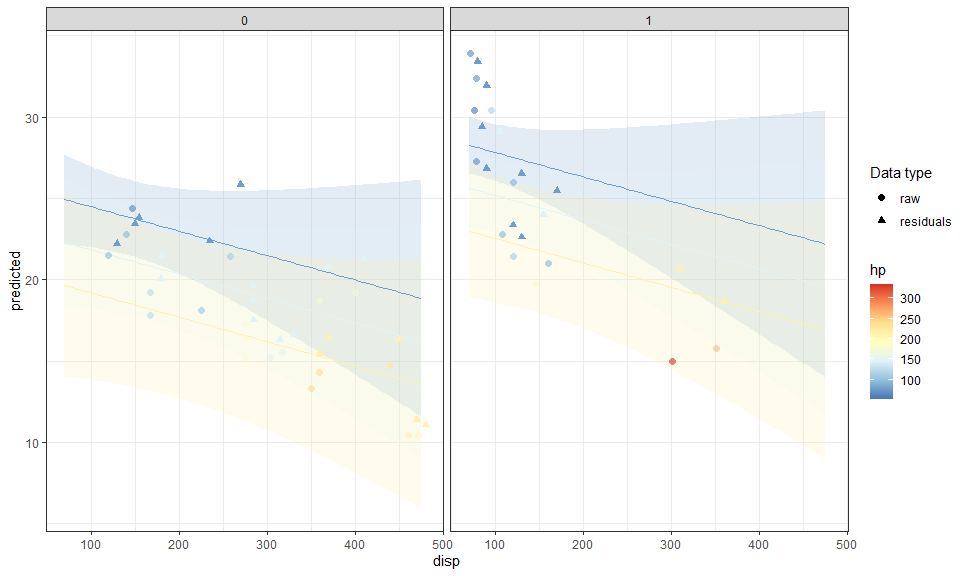
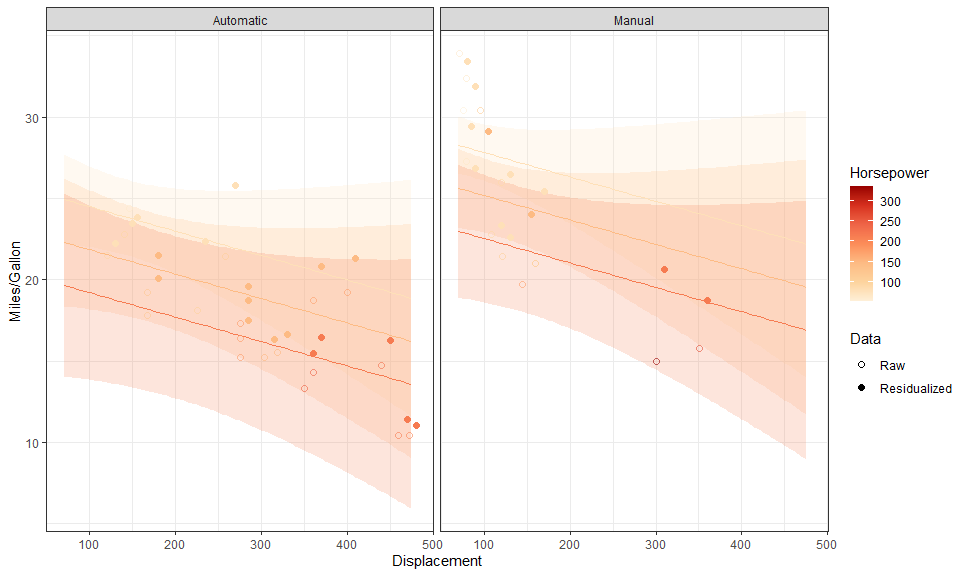
update README

diff --git a/README.md b/README.md
@@ -54,15 +54,20 @@ autoplot(gge) +
 
 The default plot is better looking than the ugly `ggplot2` default,
 however `ggggeffects` is fully customisable, as would be expected (also
-not that the `am` is retained as a numeric variable):
+note that the `am` is retained as a numeric variable):
 
 ``` r
-autoplot(gge, aes(color = factor(am), fill = after_scale(color)),
-         cols = vars(am)) +
+autoplot(
+  gge, 
+  aes(color = factor(am), fill = after_scale(color)),
+  cols = vars(am), 
+  labeller = labeller(am = as_labeller(c("0" = "Automatic", "1" = "Manual")))
+) +
   geom_CI_bar(width = .3, color = "black", position = position_dodge(0.3)) +
-  geom_expected_point(size = 2, position = position_dodge(0.3)) +
+  geom_expected_point(size = 3, position = position_dodge(0.3)) +
+  scale_color_brewer(NULL, labels = c("Automatic", "Manual"), type = "qual") +
   theme_bw() +
-  labs(color = "am")
+  labs(x = "No. Cylinders", y = "Miles/Gallon")
 ```
 
 ![](README_files/figure-gfm/custom1-1.png)<!-- -->
@@ -72,12 +77,14 @@ Here is another example, with a continuous variable on x:
 ``` r
 gge <- ggpredict(fit, c("disp", "hp", "am"))
 
-(p <- autoplot(gge) +
-  geom_CI_ribbon(color = NA, alpha = 0.2) +
-  geom_expected_line() +
-  scale_color_distiller(type = "div", palette = 7, 
-                        aesthetics = c("color", "fill")) +
-  theme_bw())
+(p <- autoplot(gge, labeller = labeller(am = as_labeller(c("0" = "Automatic", "1" = "Manual")))) +
+    geom_CI_ribbon(color = NA, alpha = 0.2) +
+    geom_expected_line() +
+    scale_color_distiller("Horsepower", 
+                          type = "seq", palette = 8, direction = 1,
+                          aesthetics = c("color", "fill")) +
+    theme_bw() +
+    labs(y = "Miles/Gallon", x = "Displacement"))
 ```
 
 ![](README_files/figure-gfm/custom2-1.png)<!-- -->
@@ -88,7 +95,7 @@ We can use `stat_raw_data` to add the raw data to the plot! It’s so
 simple!
 
 ``` r
-p + stat_raw_data()
+p + stat_raw_data(shape = 21, color = "black")
 ```
 
 ![](README_files/figure-gfm/with_data-1.png)<!-- -->
@@ -97,7 +104,7 @@ We can also create partial residual plots with
 `stat_residualized_data()`:
 
 ``` r
-p + stat_residualized_data()
+p + stat_residualized_data(shape = 21, color = "black")
 ```
 
 ![](README_files/figure-gfm/with_residuals-1.png)<!-- -->
@@ -106,10 +113,12 @@ We can even plot them side by side:
 
 ``` r
 p +
-  stat_raw_data(aes(shape = "raw"), size = 2, alpha = 0.6) +
-  stat_residualized_data(aes(shape = "residuals"), size = 2,
+  stat_raw_data(aes(shape = "Raw"), 
+                size = 2, alpha = 0.6) +
+  stat_residualized_data(aes(shape = "Residualized"), 
+                         size = 2,
                          position = position_nudge(x = 10)) +
-  labs(shape = "Data type")
+  scale_shape_manual("Data", values = c(1, 16))
 ```
 
 ![](README_files/figure-gfm/with_both-1.png)<!-- -->
@@ -119,18 +128,58 @@ p +
 We can also plot bi-variate raster plots:
 
 ``` r
-gge <- ggpredict(fit, c("disp [n=10]", "hp [n=10]", "am"))
+mod <- lm(Volume ~ poly(Girth, 3) * Height, data = trees)
 
-autoplot(gge, aes(x = disp, y = hp,
+gge <- ggpredict(mod, c("Girth [n=25]", "Height [n=25]"))
+
+autoplot(gge, aes(x = Girth, y = Height,
+                  group = NULL, # need to override
                   color = predicted, fill = predicted)) +
   geom_raster() +
-  # geom_contour(aes(z = predicted)) +
+  geom_contour(aes(z = predicted),
+               color = "white", linetype = "dashed") +
   stat_raw_data(shape = 21, color = "white", size = 2) +
   scale_color_viridis_c(aesthetics = c("color", "fill")) +
   theme_minimal()
 ```
 
 ![](README_files/figure-gfm/raster_2Dplot-1.png)<!-- -->
+
+This is especially useful for plotting multi-variate smooth terms in
+GAMs:
+
+``` r
+library(mgcv)
+
+eg <- gamSim(2, n = 5000, scale = .5)
+```
+
+    ## Bivariate smoothing example
+
+``` r
+b5 <- gam(y ~ s(x, z, k = 20), data = eg$data)
+
+plot(b5)
+```
+
+![](README_files/figure-gfm/raster_GAM-1.png)<!-- -->
+
+``` r
+# Compare to
+
+gge <- ggpredict(b5, c("x [n=45]", "z [n=45]"))
+
+autoplot(gge, aes(x = x, y = z, 
+                  group = NULL, # need to override
+                  color = predicted, fill = predicted)) +
+  geom_raster() +
+  geom_contour(aes(z = predicted),
+               color = "white", linetype = "dashed") +
+  scale_color_viridis_c(aesthetics = c("color", "fill")) +
+  theme_minimal()
+```
+
+![](README_files/figure-gfm/raster_GAM-2.png)<!-- -->
 
 ### Collapsing Across Random Variables
 
@@ -167,8 +216,10 @@ gge <- ggemmeans(m, c("congruency", "condition"))
 ``` r
 p <- autoplot(gge) +
   geom_CI_bar(width = .3, color = "black", position = position_dodge(0.7)) +
+  geom_expected_line(position = position_dodge(0.7)) +
   geom_expected_point(shape = 21, color = "black", 
-                      position = position_dodge(0.7), size = 3)
+                      position = position_dodge(0.7), size = 3) +
+  theme_classic()
 ```
 
 To collapse across a grouping variable, we set `collapse.group` to
@@ -212,7 +263,7 @@ p +
 
 We can do the same for residualized data, or with a continuous variable
 on x (though this only really works nicely if the covariate is on level
-2+):
+2+) - or both:
 
 ``` r
 gge <- ggemmeans(m, c("level2_cov [all]", "congruency", "condition"))
@@ -220,7 +271,8 @@ gge <- ggemmeans(m, c("level2_cov [all]", "congruency", "condition"))
 autoplot(gge) +
   geom_CI_ribbon(color = NA, alpha = 0.1) +
   geom_expected_line() +
-  stat_residualized_data(collapse.group = "pno", alpha = 0.4)
+  stat_residualized_data(collapse.group = "pno", alpha = 0.4) +
+  theme_classic()
 ```
 
-![](README_files/figure-gfm/unnamed-chunk-1-1.png)<!-- -->
+![](README_files/figure-gfm/collapse_rez_contX-1.png)<!-- -->
